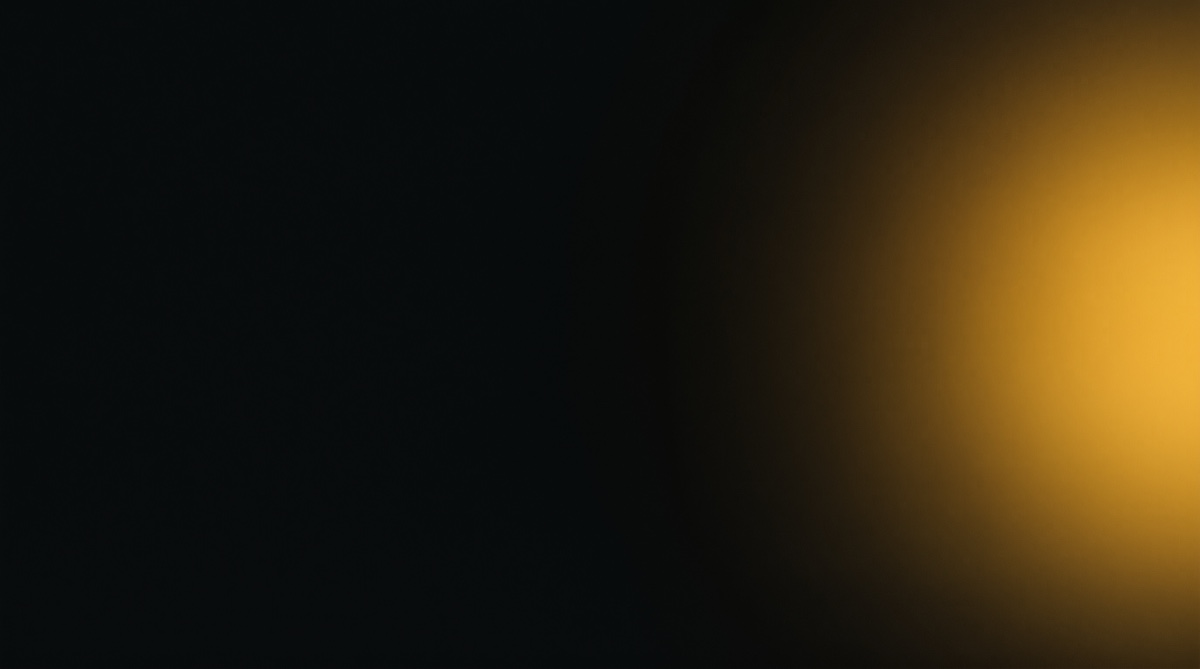
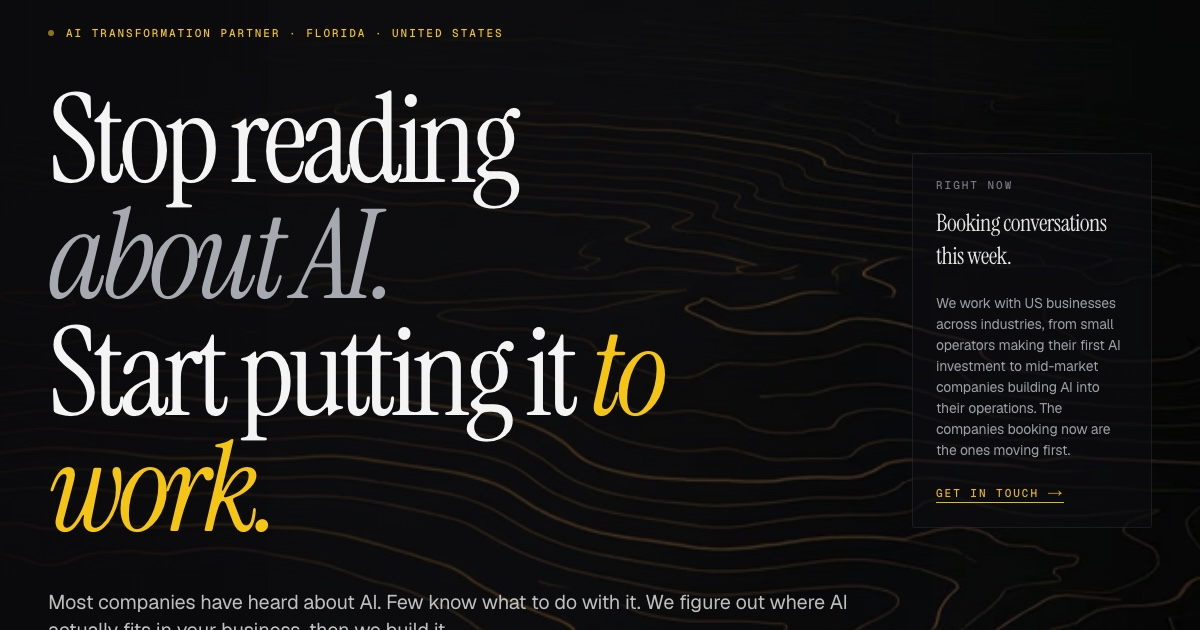
OG card is now a real screenshot of the hero
Replace the wordless topography JPG and the programmatic Satori render with a 1200x630 headless-Chrome screenshot of the deployed hero. Now the share preview shows the actual headline, eyebrow, italic saffron treatment, and sidebar card — exactly as a visitor sees it.

diff --git a/src/app/layout.js b/src/app/layout.js
@@ -38,12 +38,21 @@ export const metadata = {
       "An AI Transformation Partner for US businesses. We figure out where AI fits in your business, then we build it, deploy it, and train your team to use it.",
     type: "website",
     siteName: "Maxera",
+    images: [
+      {
+        url: "/img/og-card.jpg",
+        width: 1200,
+        height: 630,
+        alt: "Maxera · Stop reading about AI. Start putting it to work.",
+      },
+    ],
   },
   twitter: {
     card: "summary_large_image",
     title: "Maxera · Stop reading about AI. Start putting it to work.",
     description:
       "An AI Transformation Partner for US businesses. We figure out where AI fits in your business, then we build it, deploy it, and train your team to use it.",
+    images: ["/img/og-card.jpg"],
   },
 };
 